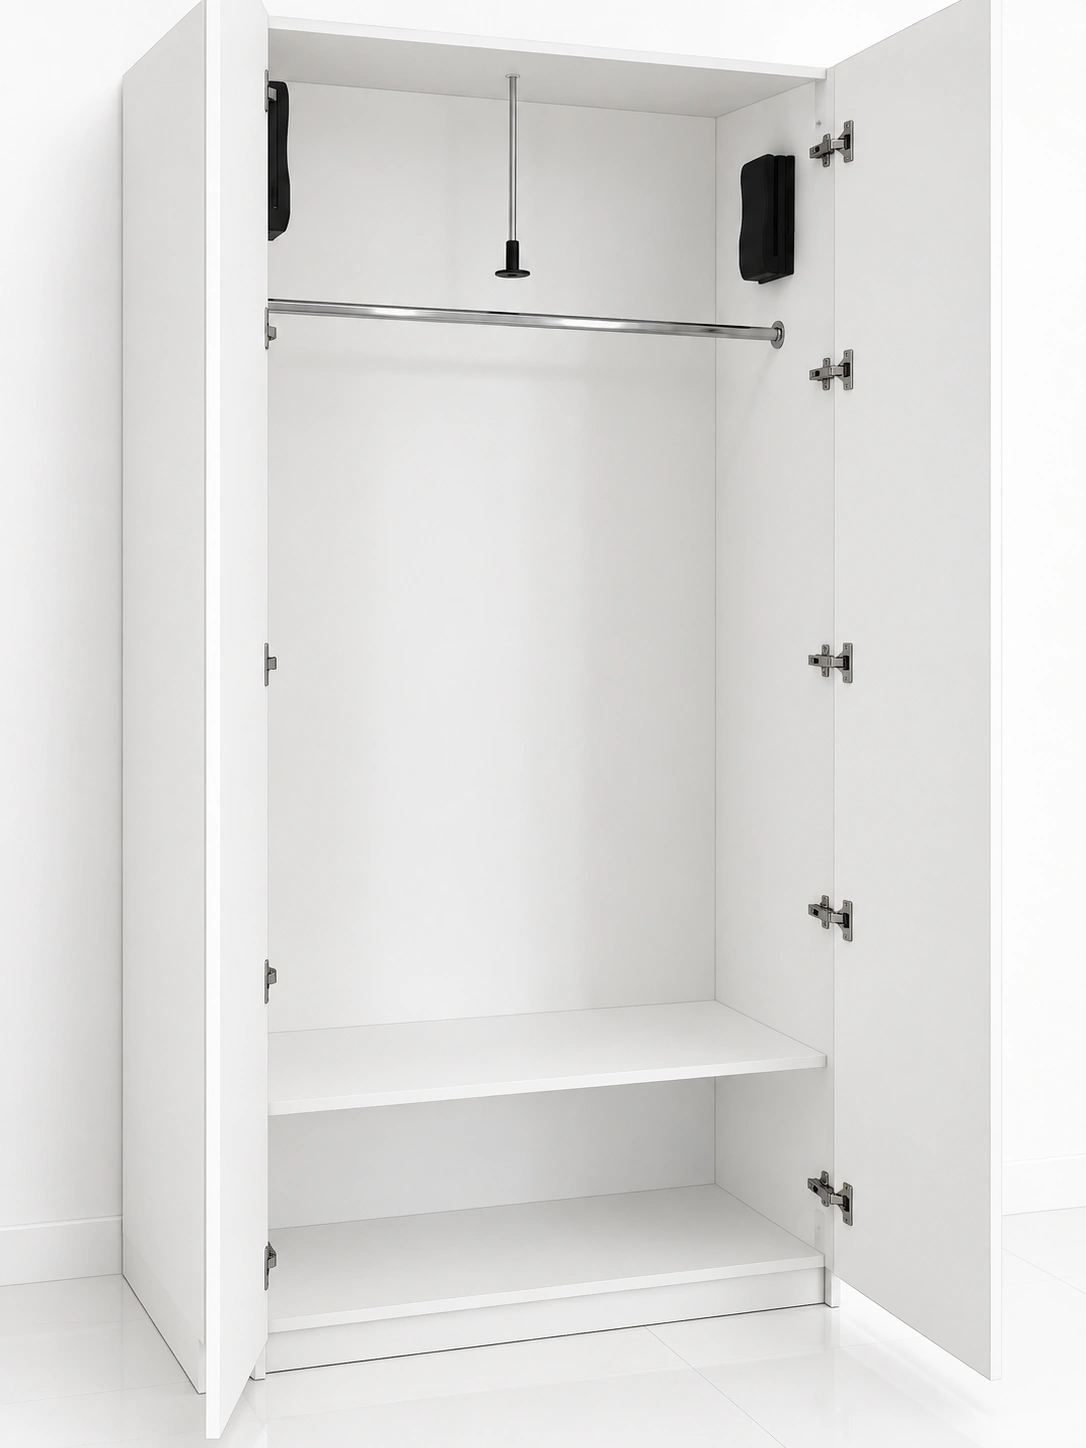
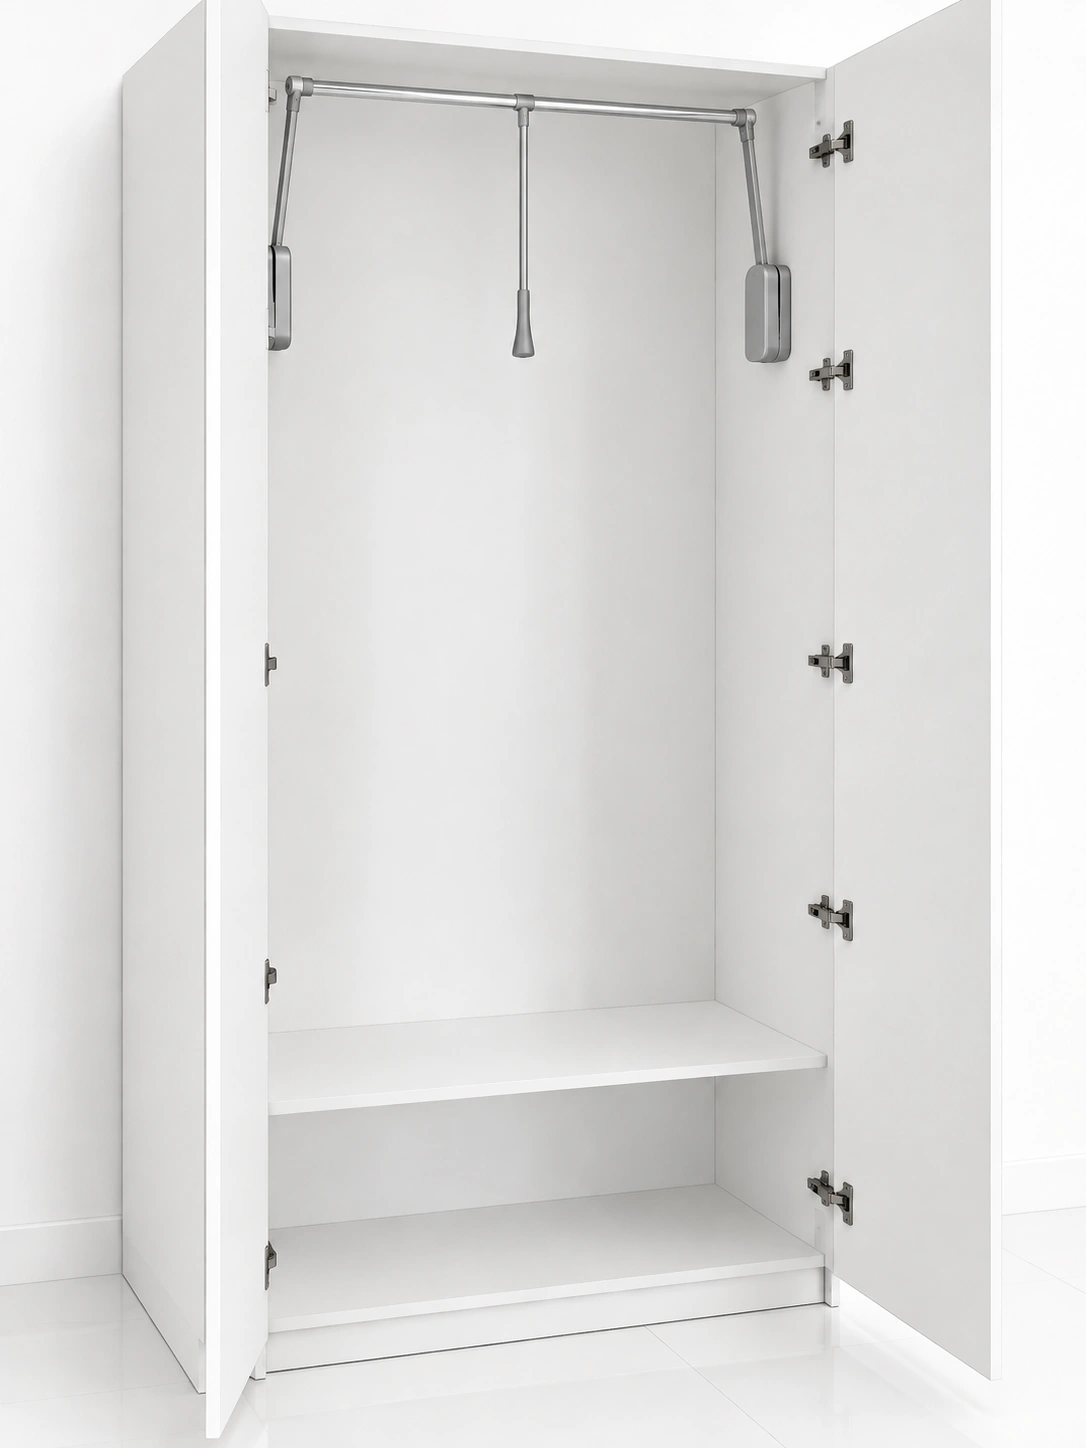
Fix Linea pantograph and add wardrobe interior

diff --git a/src/data/products.ts b/src/data/products.ts
@@ -824,8 +824,9 @@ export const products: Product[] = [
     "category": "прихожие",
     "images": [
       "/images/catalog/5003/0.jpg?v=15",
-      "/images/catalog/5003/1.webp?v=18",
-      "/images/catalog/5003/2.webp?v=18"
+      "/images/catalog/5003/1.webp?v=19",
+      "/images/catalog/5003/2.webp?v=18",
+      "/images/catalog/5003/3.webp?v=19"
     ],
     "description": "Шкаф Linea — шкафы салона Valentin от 98 000 ₽.",
     "features": ["Для прихожей", "Под заказ"]
